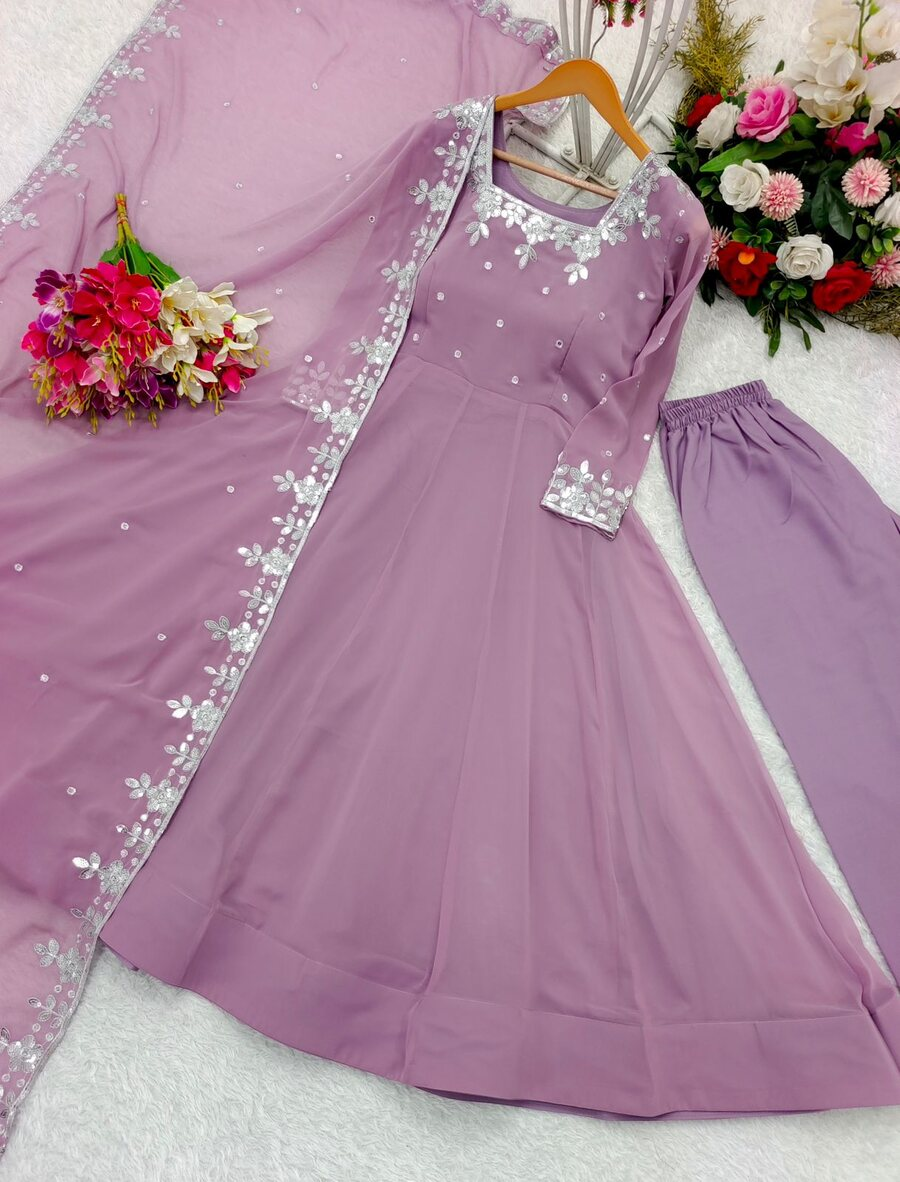
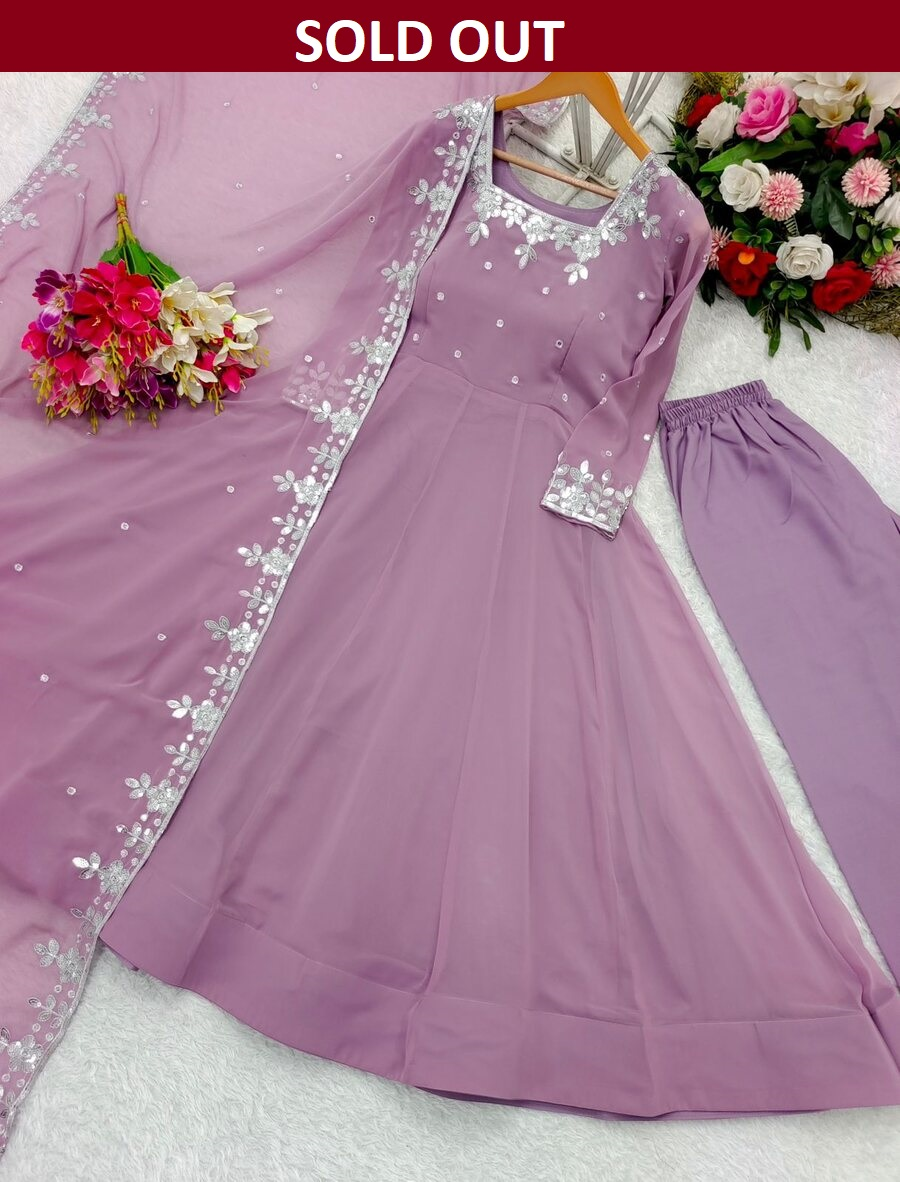
sOLD OUT

Changed region(s): [[0.0, 0.0, 1.0, 0.0609]]

diff --git a/src/components/Suit/AG73031.js b/src/components/Suit/AG73031.js
@@ -24,7 +24,7 @@ const item = {
         colors: "Baby Pink",
         size: "Medium, Large",
         code: "73031",
-        price: "$50.00--- (SOLD OUT)"
+        price: "(SOLD OUT)"
     }
 
 }
